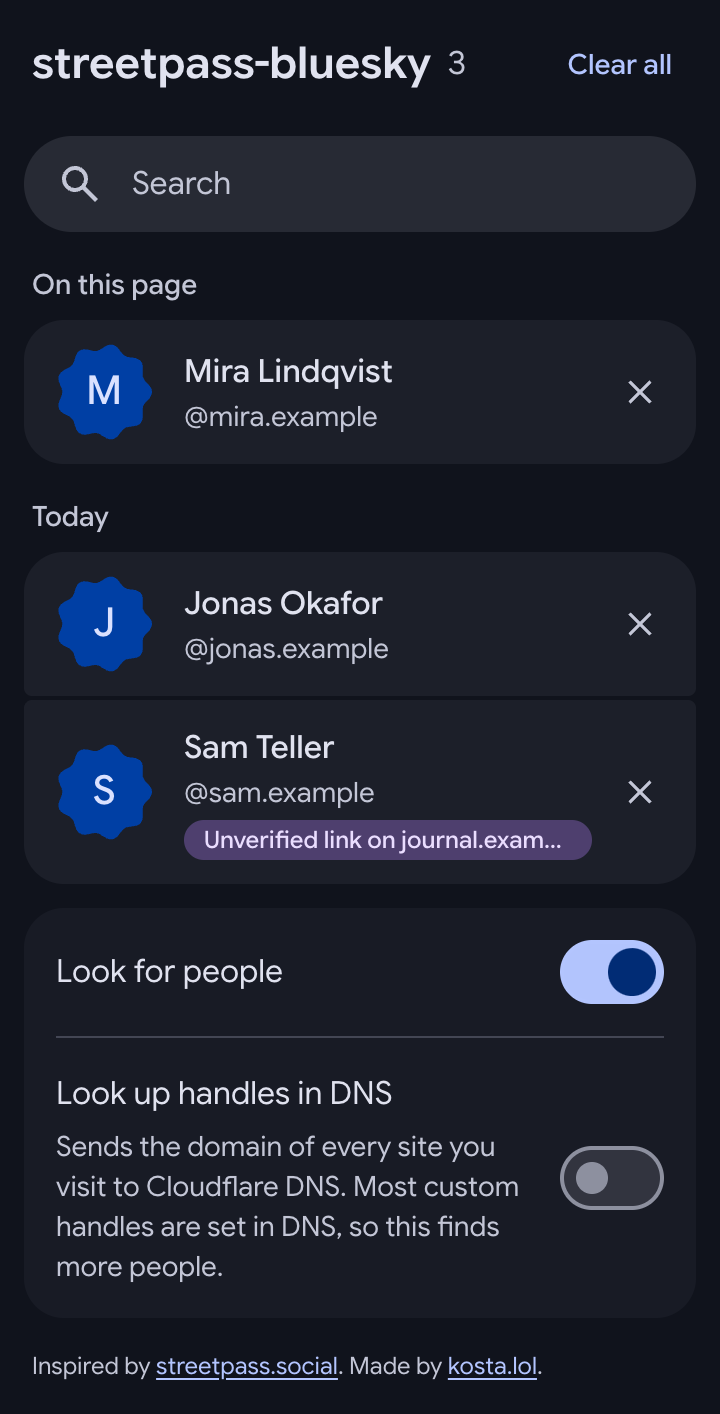
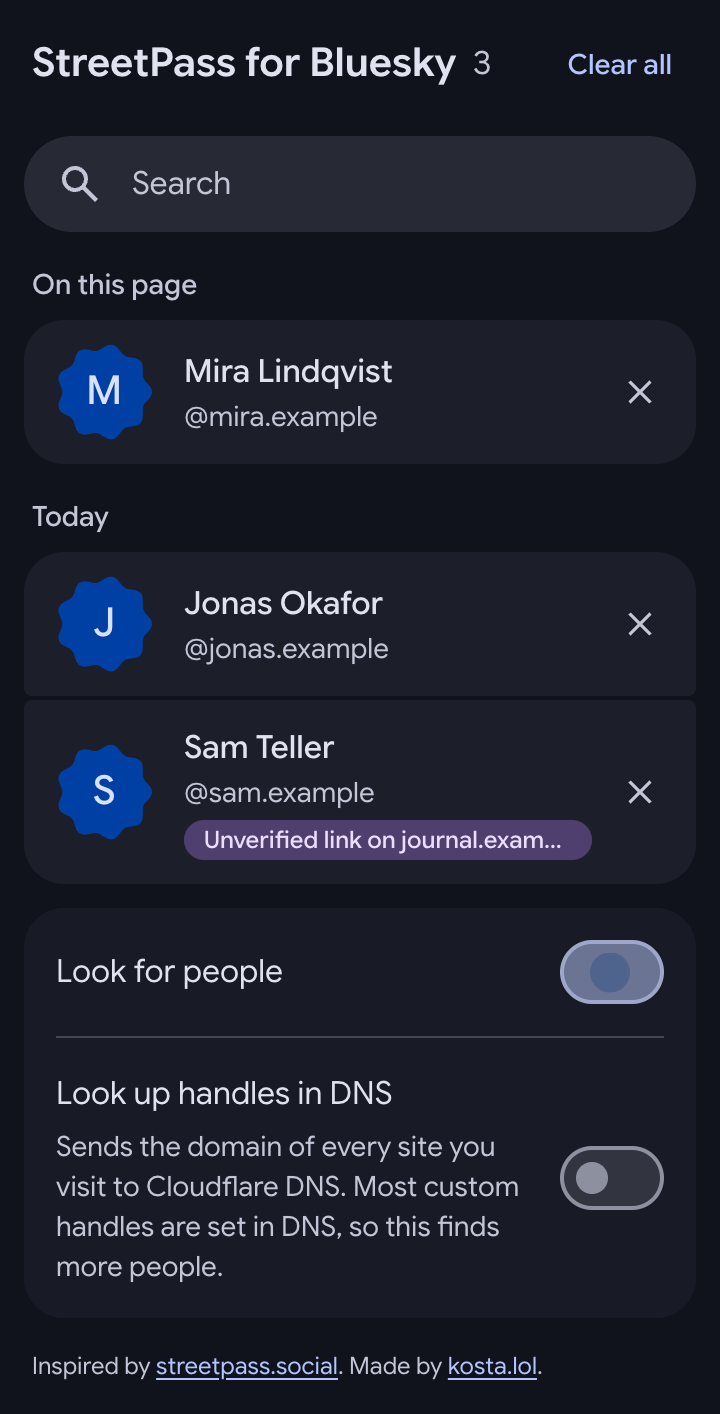
Call the extension StreetPass for Bluesky in the UI
The popup, the manifest name and the website now use the name. The
repo, the zip files and the Firefox add-on id keep streetpass-bluesky.
The popup title drops to 20px to fit next to the count, and the clear
confirmation reads "Clear 12?" with the full question as its label.
The screenshot script waits for the install migration before seeding
and captures the full page instead of resizing the viewport.

Changed region(s): [[0.0306, 0.0311, 0.6722, 0.0622], [0.7639, 0.6535, 0.9167, 0.7157]]

diff --git a/scripts/screenshots.ts b/scripts/screenshots.ts
@@ -37,6 +37,16 @@ const context = await chromium.launchPersistentContext("", {
 try {
   const worker = context.serviceWorkers()[0] ?? (await context.waitForEvent("serviceworker"));
   const id = new URL(worker.url()).host;
+  // On install the background rewrites the stored list once (see withDomainsOnly).
+  // Seeding before that finishes would be overwritten, so wait for it.
+  await worker.evaluate(
+    () =>
+      new Promise<void>((done) => {
+        const check = async () =>
+          (await chrome.storage.local.get("people")).people ? done() : setTimeout(check, 50);
+        check();
+      }),
+  );
   await worker.evaluate((p) => chrome.storage.local.set({ people: p, dnsLookup: false }), people);
 
   // Opened as a tab, the popup sees itself as the active tab. Telling the
@@ -55,8 +65,7 @@ try {
     await page.reload();
     await page.waitForSelector(".person");
     height = await page.evaluate(() => document.documentElement.scrollHeight);
-    await page.setViewportSize({ width: 360, height });
-    await page.screenshot({ path: `site/popup-${scheme}.png` });
+    await page.screenshot({ path: `site/popup-${scheme}.png`, fullPage: true });
     console.log(`site/popup-${scheme}.png  360x${height}`);
   }
 

diff --git a/site/index.html b/site/index.html
@@ -3,9 +3,9 @@
   <head>
     <meta charset="utf-8" />
     <meta name="viewport" content="width=device-width, initial-scale=1" />
-    <title>streetpass-bluesky</title>
+    <title>StreetPass for Bluesky</title>
     <meta name="description" content="A browser extension that finds the Bluesky accounts behind the sites you visit." />
-    <meta property="og:title" content="streetpass-bluesky" />
+    <meta property="og:title" content="StreetPass for Bluesky" />
     <meta property="og:description" content="A browser extension that finds the Bluesky accounts behind the sites you visit." />
     <meta property="og:image" content="og.png" />
     <meta name="theme-color" content="#446ccf" />
@@ -17,7 +17,7 @@
   <body>
     <header class="hero">
       <img class="logo" src="logo.svg" alt="" width="112" height="112" />
-      <h1>streetpass-bluesky</h1>
+      <h1>StreetPass for Bluesky</h1>
       <p class="lede">Finds the Bluesky accounts behind the sites you visit.</p>
       <div class="actions">
         <a class="button filled" href="https://github.com/wakahuula/streetpass-bluesky/releases/latest/download/streetpass-bluesky-chrome.zip">

diff --git a/src/popup/popup.ts b/src/popup/popup.ts
@@ -121,6 +121,7 @@ function resetClear(): void {
   clearTimeout(clearTimer);
   clear.classList.remove("confirm");
   clear.textContent = "Clear all";
+  clear.removeAttribute("aria-label");
 }
 
 clear.addEventListener("click", () => {
@@ -131,7 +132,12 @@ clear.addEventListener("click", () => {
   }
   const total = Object.keys(state.people).length;
   clear.classList.add("confirm");
-  clear.textContent = `Clear ${total} ${total === 1 ? "person" : "people"}?`;
+  // Short enough to fit next to the title; screen readers get the full question.
+  clear.textContent = `Clear ${total}?`;
+  clear.setAttribute(
+    "aria-label",
+    `Clear ${total} ${total === 1 ? "person" : "people"}? Click again to confirm.`,
+  );
   clearTimer = setTimeout(resetClear, 4000);
 });
 clear.addEventListener("blur", resetClear);

diff --git a/src/popup/popup.html b/src/popup/popup.html
@@ -3,12 +3,12 @@
   <head>
     <meta charset="utf-8" />
     <meta name="viewport" content="width=device-width, initial-scale=1" />
-    <title>streetpass-bluesky</title>
+    <title>StreetPass for Bluesky</title>
     <link rel="stylesheet" href="popup-style.css" />
   </head>
   <body>
     <header class="top-bar">
-      <h1>streetpass-bluesky</h1>
+      <h1>StreetPass for Bluesky</h1>
       <span id="count" class="count" hidden></span>
       <button id="clear" class="text-button" type="button" aria-live="polite" hidden>
         Clear all

diff --git a/src/popup/popup.css b/src/popup/popup.css
@@ -32,13 +32,15 @@ a {
   padding-left: 4px;
 }
 
+/* 20px keeps "StreetPass for Bluesky" on one line next to the count and
+   "Clear all" in a 360px popup. */
 h1 {
   min-width: 0;
   margin: 0;
   overflow: hidden;
   white-space: nowrap;
   text-overflow: ellipsis;
-  font-size: 22px;
+  font-size: 20px;
   line-height: 28px;
   font-weight: 600;
   font-variation-settings: "wdth" 100;

diff --git a/site/style.css b/site/style.css
@@ -64,9 +64,7 @@ p {
 
 h1 {
   margin-top: 24px;
-  /* Small enough on phones that the name stays on one line. */
-  font-size: clamp(28px, 7.5vw, 57px);
-  white-space: nowrap;
+  font-size: clamp(36px, 7vw, 57px);
   line-height: 1.12;
   letter-spacing: -0.02em;
 }

diff --git a/README.md b/README.md
@@ -1,4 +1,4 @@
-# streetpass-bluesky
+# StreetPass for Bluesky
 
 A Chrome and Firefox extension that collects the Bluesky accounts behind the sites you visit.
 Inspired by [streetpass.social](https://streetpass.social), which does the same for Mastodon.
